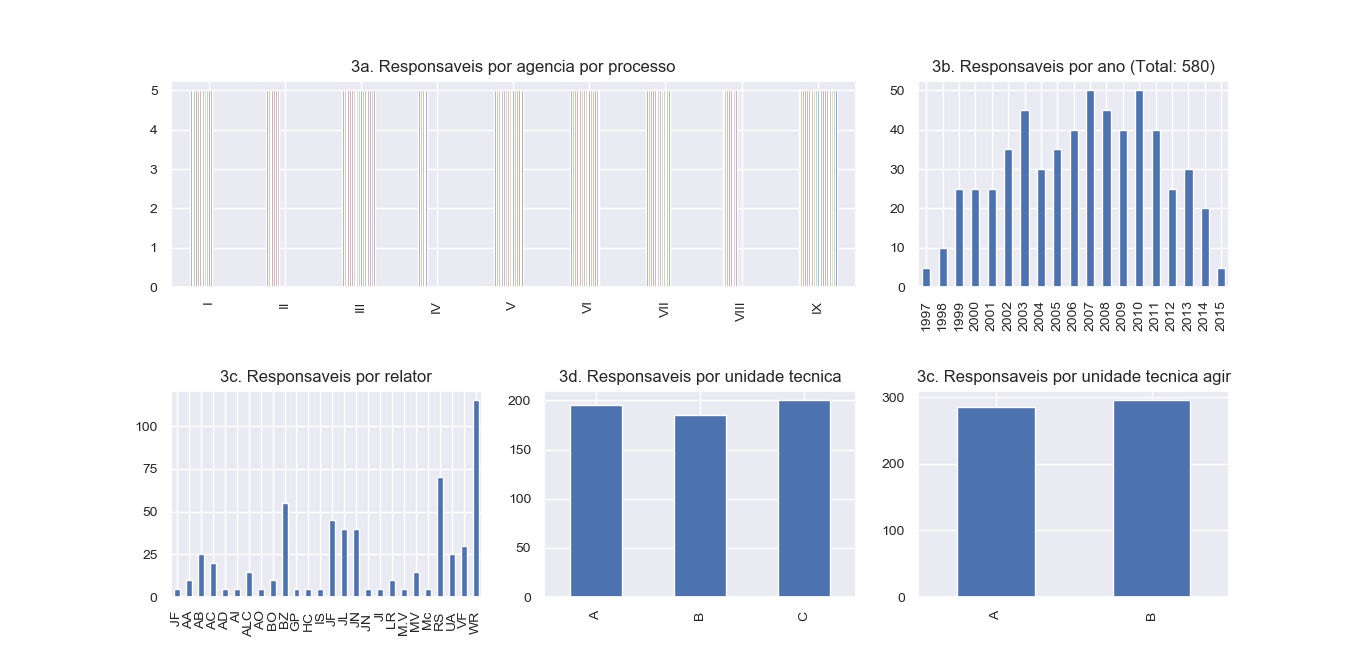
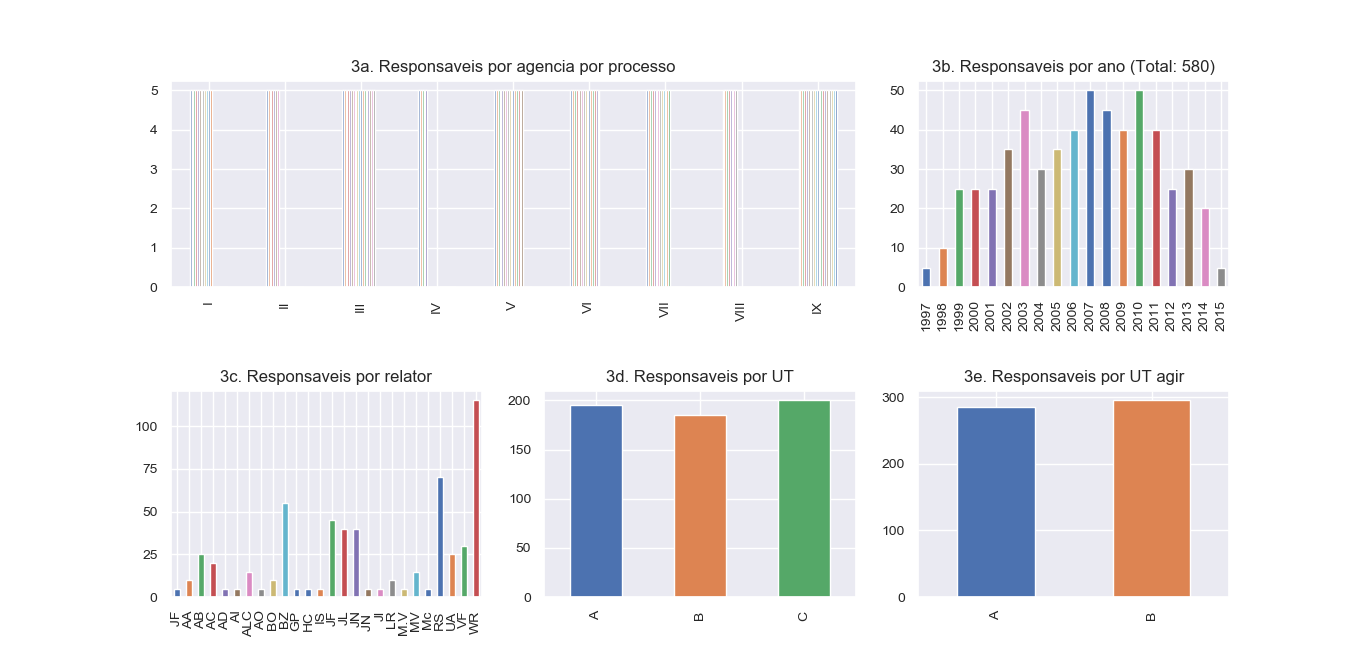
Atualizacoes 1

diff --git a/regulacaoemnumeros/Questao5.py b/regulacaoemnumeros/Questao5.py
@@ -17,22 +17,10 @@ plt.subplots_adjust(hspace=0.7)
 #                                                  QUESTAO 5a
 # ===============================================================================================================
 
-agencias = list(df['AgenciaInt'].unique())
-agencias = sorted(agencias)
-
-d_5a={}
-
-for x in agencias:
-    main_index = roman.toRoman(int(x))
-    d_5a[main_index] = 0
-    for index, row in df.iterrows():
-        if row['AgenciaInt'] == x:
-            try:
-                d_5a[main_index] += int(row['deliberacoes_quantidade'])
-            except Exception as error:
-                print(error)
-
-result_5a = pd.Series(d_5a)
+result_5a = df.groupby('AgenciaInt')['deliberacoes_quantidade'].sum()
+result_5a = pd.Series(result_5a.index.values, index=result_5a) # Inverter indice com valores
+result_5a = result_5a.apply(roman.toRoman) # Aplicar funcao conversora
+result_5a = pd.Series(result_5a.index.values, index=result_5a) # Reinverter para manter numerais como indice
 result_5a.plot.bar(ax=axes[0,0], title='5a. Deliberacoes por agencia', fontsize=10)
 
 
@@ -40,24 +28,11 @@ result_5a.plot.bar(ax=axes[0,0], title='5a. Deliberacoes por agencia', fontsize=
 #                                                  QUESTAO 5b
 # ===============================================================================================================
 
-anos = list(df['Exercicio_Apurado'].unique())
-anos = sorted([int(x) for x in anos])
-
-d_5b={}
-d_5b_total = 0
-
-for x in anos:
-    d_5b[x] = 0
-    for index, row in df.iterrows():
-        if row['Exercicio_Apurado'] == x:
-            try:
-                d_5b[x] += int(row['deliberacoes_quantidade'])
-                d_5b_total += int(row['deliberacoes_quantidade'])
-            except Exception as error:
-                print(error)
-
-result_5b = pd.Series(d_5b)
-title_5b = '5b. Deliberacoes por ano (Total: {})'.format(d_5b_total)
+result_5b = df.groupby('Exercicio_Apurado')['deliberacoes_quantidade'].sum()
+result_5b = pd.Series(result_5b.index.values, index=result_5b) # Inverter indice com valores
+result_5b = result_5b.apply(int) # Aplicar funcao conversora
+result_5b = pd.Series(result_5b.index.values, index=result_5b) # Reinverter para manter numerais como indice
+title_5b = '5b. Deliberacoes por ano (Total: {})'.format(result_5b.sum())
 result_5b.plot.bar(ax=axes[0,1], title=title_5b, fontsize=10)
 
 
@@ -65,21 +40,8 @@ result_5b.plot.bar(ax=axes[0,1], title=title_5b, fontsize=10)
 #                                                  QUESTAO 5c
 # ===============================================================================================================
 
-relatores = list(df['Relator'].unique())
-relatores = sorted(relatores)
-
-d_5c={}
-
-for x in relatores:
-    d_5c[x] = 0
-    for index, row in df.iterrows():
-        if row['Relator'] == x:
-            try:
-                d_5c[x] += int(row['deliberacoes_quantidade'])
-            except Exception as error:
-                print(error)
-
-result_5c = pd.Series(d_5c)
+result_5c = df.groupby('Relator')['deliberacoes_quantidade'].sum()
+result_5c.index.name = ''
 large_left_ax = plt.subplot2grid((3,2), (1,0), colspan=2, rowspan=1)
 result_5c.plot.bar(ax=large_left_ax, title='5c. Deliberacoes por relator', fontsize=10)
 
@@ -88,21 +50,8 @@ result_5c.plot.bar(ax=large_left_ax, title='5c. Deliberacoes por relator', fonts
 #                                                  QUESTAO 5d
 # ===============================================================================================================
 
-unidades = list(df['Unidade_Tecnica_Responsavel'].unique())
-unidades = sorted(unidades)
-
-d_5d={}
-
-for x in unidades:
-    d_5d[x] = 0
-    for index, row in df.iterrows():
-        if row['Unidade_Tecnica_Responsavel'] == x:
-            try:
-                d_5d[x] += int(row['deliberacoes_quantidade'])
-            except Exception as error:
-                print(error)
-
-result_5d = pd.Series(d_5d)
+result_5d = df.groupby('Unidade_Tecnica_Responsavel')['deliberacoes_quantidade'].sum()
+result_5d.index.name = ''
 result_5d.plot.bar(ax=axes[2,0], title='5d. Deliberacoes por UT responsavel', fontsize=10)
 
 
@@ -110,21 +59,8 @@ result_5d.plot.bar(ax=axes[2,0], title='5d. Deliberacoes por UT responsavel', fo
 #                                                  QUESTAO 5e
 # ===============================================================================================================
 
-agir = list(df['Unidade_Tecnica_Por_Agir'].unique())
-agir = sorted(agir)
-
-d_5e={}
-
-for x in agir:
-    d_5e[x] = 0
-    for index, row in df.iterrows():
-        if row['Unidade_Tecnica_Por_Agir'] == x:
-            try:
-                d_5e[x] += int(row['deliberacoes_quantidade'])
-            except Exception as error:
-                print(error)
-
-result_5e = pd.Series(d_5e)
+result_5e = df.groupby('Unidade_Tecnica_Por_Agir')['deliberacoes_quantidade'].sum()
+result_5e.index.name = ''
 result_5e.plot.bar(ax=axes[2,1], title='5e. Deliberacoes por UT responsavel agir', fontsize=10)
 
 

diff --git a/regulacaoemnumeros/Questao3.py b/regulacaoemnumeros/Questao3.py
@@ -38,20 +38,12 @@ result_3a.plot.bar(legend=False, ax=large_left_ax, title='3a. Responsaveis por a
 #                                                  QUESTAO 3b
 # ===============================================================================================================
 
-anos = list(df['Exercicio_Apurado'].unique())
-anos = sorted([int(x) for x in anos])
-
-d_3b = {}
-total_3b = 0
-for x in anos:
-    d_3b[x] = 0
-    for index, row in df.iterrows():
-        if row['Exercicio_Apurado'] == x:
-            d_3b[x] += row['quant_responsaveis']
-            total_3b += row['quant_responsaveis']
-
-result_3b = pd.DataFrame.from_dict(d_3b, orient='index')
-title = '3b. Responsaveis por ano (Total: {})'.format(total_3b)
+result_3b = df.groupby('Exercicio_Apurado')['quant_responsaveis'].sum()
+result_3b.index.name = ''
+result_3b = pd.Series(result_3b.index.values, index=result_3b) # Inverter indice com valores
+result_3b = result_3b.apply(int) # Aplicar funcao conversora
+result_3b = pd.Series(result_3b.index.values, index=result_3b) # Reinverter para manter numerais como indice
+title = '3b. Responsaveis por ano (Total: {})'.format(result_3b.sum())
 result_3b.plot.bar(legend=False, ax=axes[0,2], title=title, fontsize=10)
 
 
@@ -59,18 +51,8 @@ result_3b.plot.bar(legend=False, ax=axes[0,2], title=title, fontsize=10)
 #                                                  QUESTAO 3c
 # ===============================================================================================================
 
-relatores = list(df['Relator'].unique())
-relatores = sorted(relatores)
-
-d_3c={}
-
-for x in relatores:
-    d_3c[x] = 0
-    for index, row in df.iterrows():
-        if row['Relator'] == x:
-            d_3c[x] += row['quant_responsaveis']
-#
-result_3c = pd.DataFrame.from_dict(d_3c, orient='index')
+result_3c = df.groupby('Relator')['quant_responsaveis'].sum()
+result_3c.index.name = ''
 result_3c.plot.bar(legend=False, ax=axes[1,0], title='3c. Responsaveis por relator', fontsize=10)
 
 
@@ -78,38 +60,18 @@ result_3c.plot.bar(legend=False, ax=axes[1,0], title='3c. Responsaveis por relat
 #                                                  QUESTAO 3d
 # ===============================================================================================================
 
-unidades = list(df['Unidade_Tecnica_Responsavel'].unique())
-unidades = sorted(unidades)
-
-d_3d={}
-
-for x in unidades:
-    d_3d[x] = 0
-    for index, row in df.iterrows():
-        if row['Unidade_Tecnica_Responsavel'] == x:
-            d_3d[x] += row['quant_responsaveis']
-
-result_3d = pd.DataFrame.from_dict(d_3d, orient='index')
-result_3d.plot.bar(legend=False, ax=axes[1,1], title='3d. Responsaveis por unidade tecnica', fontsize=10)
+result_3d = df.groupby('Unidade_Tecnica_Responsavel')['quant_responsaveis'].sum()
+result_3d.index.name = ''
+result_3d.plot.bar(legend=False, ax=axes[1,1], title='3d. Responsaveis por UT', fontsize=10)
 
 
 # ===============================================================================================================
 #                                                  QUESTAO 3e
 # ===============================================================================================================
 
-agir = list(df['Unidade_Tecnica_Por_Agir'].unique())
-agir = sorted(agir)
-
-d_3e={}
-
-for x in agir:
-    d_3e[x] = 0
-    for index, row in df.iterrows():
-        if row['Unidade_Tecnica_Por_Agir'] == x:
-            d_3e[x] += row['quant_responsaveis']
-
-result_3e = pd.DataFrame.from_dict(d_3e, orient='index')
-result_3e.plot.bar(legend=False, ax=axes[1,2], title='3c. Responsaveis por unidade tecnica agir', fontsize=10)
+result_3e = df.groupby('Unidade_Tecnica_Por_Agir')['quant_responsaveis'].sum()
+result_3e.index.name = ''
+result_3e.plot.bar(legend=False, ax=axes[1,2], title='3e. Responsaveis por UT agir', fontsize=10)
 
 
 plt.show()
